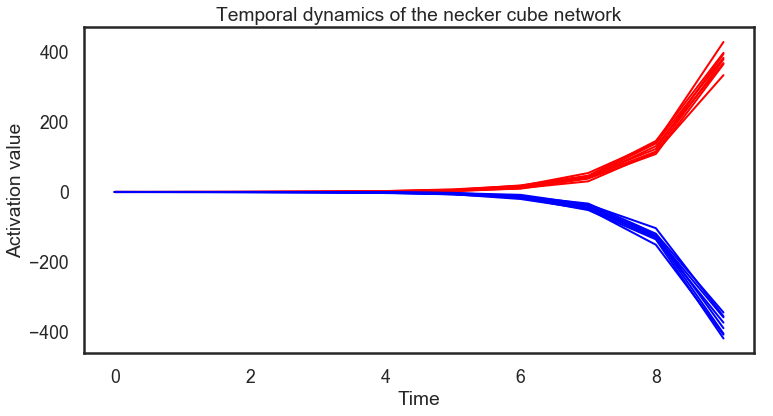
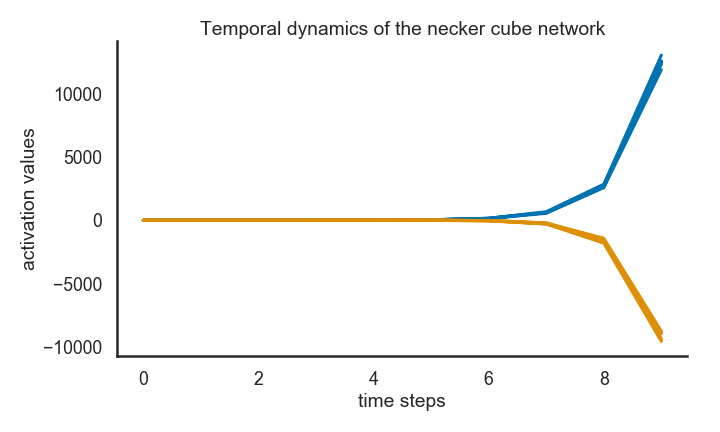
update plt

Changed region(s): [[0.0, 0.0, 0.9778, 0.9688]]

diff --git a/necker_rnn.py b/necker_rnn.py
@@ -2,10 +2,15 @@
 the necker cube bistable percepts phenomena
 implemented with a recurrent neural network mechanism
 """
-
+import os
 import numpy as np
 import psyneulink as pnl
 import matplotlib.pyplot as plt
+import seaborn as sns
+sns.set(style='white', context='poster', font_scale=.8)
+np.random.seed(0)
+
+img_path = 'imgs/'
 
 # constants
 excit_level = 1
@@ -38,15 +43,19 @@ wts_necker_mech = np.vstack(
 )
 
 # show the necker cube weights
-f, ax = plt.subplots(1, 1, figsize=(12, 10))
-im = ax.imshow(wts_necker_mech, cmap='bone')
+f, ax = plt.subplots(1, 1, figsize=(14, 12))
+# im = ax.imshow(wts_necker_mech, cmap='bone')
+sns.heatmap(
+    wts_necker_mech,
+    cmap='RdBu_r', linewidths=.5, annot=True,
+    square=True,
+)
 ax.set_xticks(range(n_nodes*n_percepts))
 ax.set_xticklabels(all_nodes + [n+'\'' for n in all_nodes])
 ax.set_yticks(range(n_nodes*n_percepts))
-ax.set_yticklabels(all_nodes + [n+'\'' for n in all_nodes])
-ax.set_title('weights, the necker model')
-f.colorbar(im, ax=ax)
-
+ax.set_yticklabels(all_nodes + [n+'\'' for n in all_nodes], rotation=0)
+ax.set_title('Connection weights, the necker model')
+f.savefig(os.path.join(img_path, 'wts.png'))
 
 # build the model
 function_necker_mech = pnl.Linear
@@ -77,10 +86,14 @@ input_dict = {necker_mech: inputs}
 necker_system.run(input_dict, num_trials=n_time_steps)
 
 # plot the dynamics
+colpal = sns.color_palette('colorblind', n_colors=n_percepts)
 acts = np.squeeze(necker_system.results)
-f, ax = plt.subplots(1, 1, figsize=(12, 5))
-ax.plot(acts[:, :n_nodes], color='red')
-ax.plot(acts[:, n_nodes:], color='blue')
-ax.set_title('temporal dynamics of the necker cube network')
+f, ax = plt.subplots(1, 1, figsize=(10, 6))
+ax.plot(acts[:, :n_nodes], color=colpal[0])
+ax.plot(acts[:, n_nodes:], color=colpal[1])
+ax.set_title('Temporal dynamics of the necker cube network')
 ax.set_xlabel('time steps')
 ax.set_ylabel('activation values')
+sns.despine()
+f.tight_layout()
+f.savefig(os.path.join(img_path, 'temp_dyn.png'))
